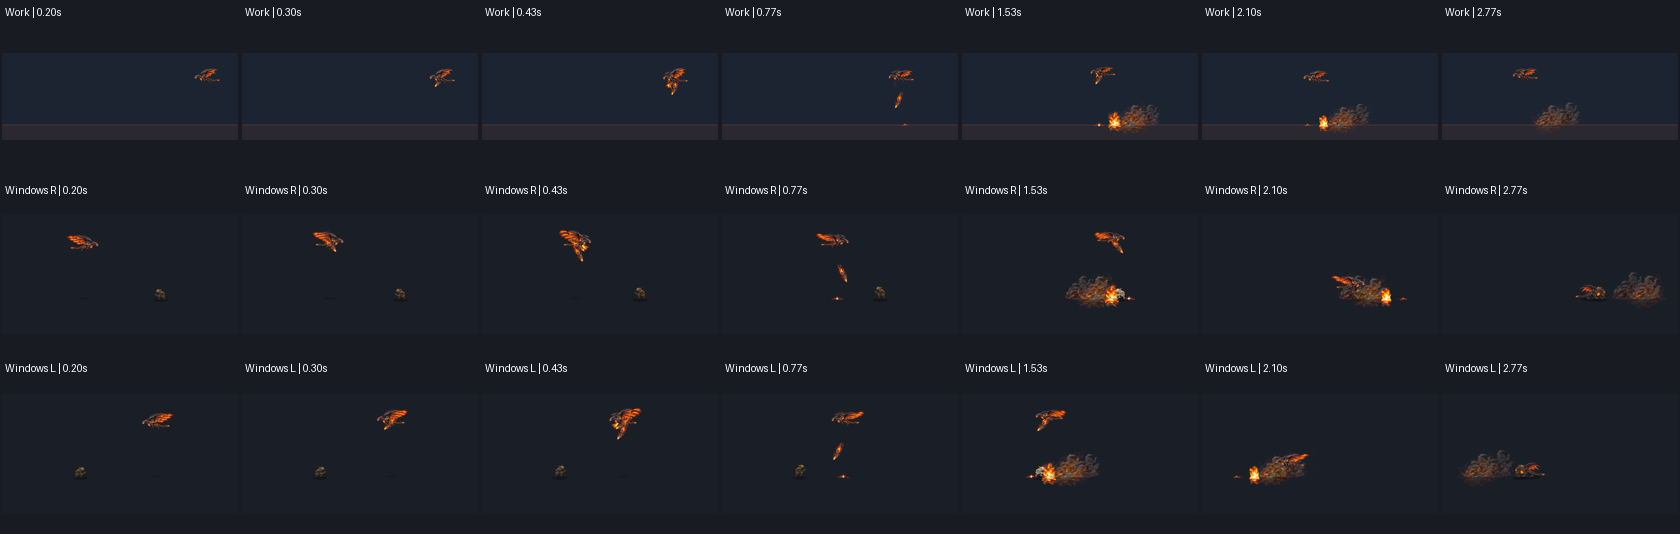
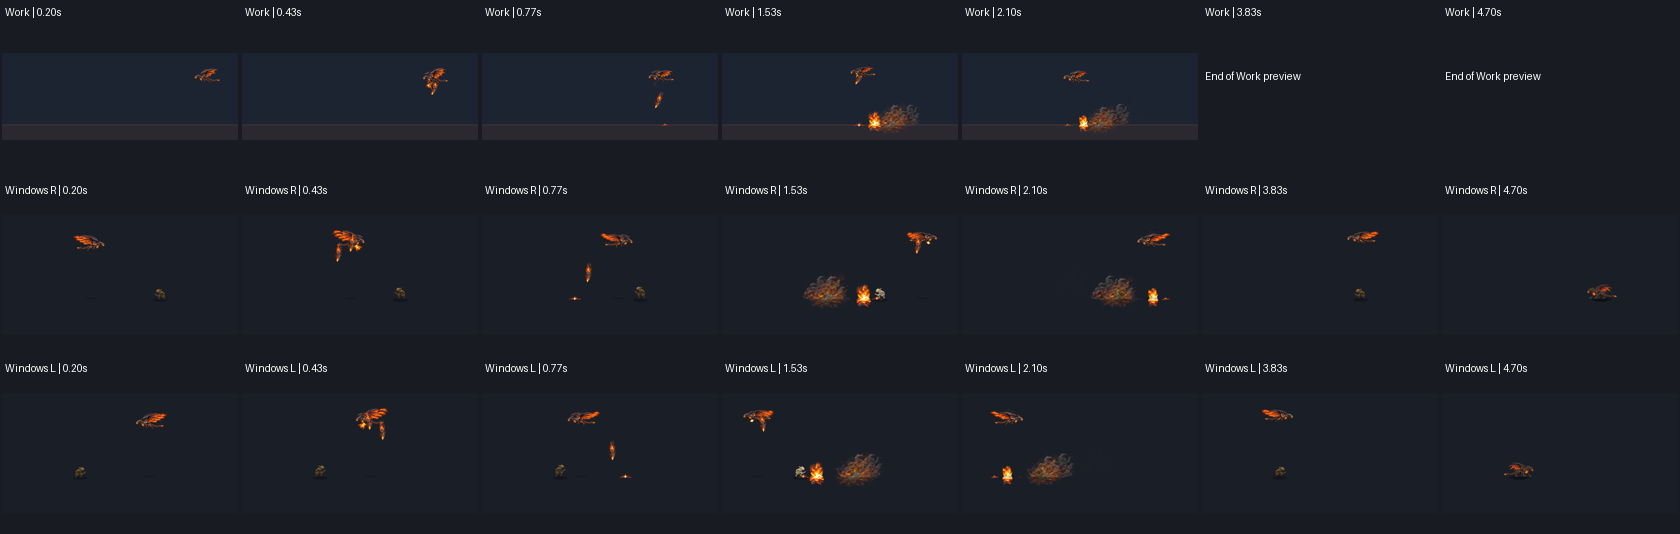
Automate Steel Dragon bombing run and add recovery flight

diff --git a/src/core/World.cpp b/src/core/World.cpp
@@ -538,7 +538,7 @@ void World::clearCarpetBombardment() {
         [](const Fx& f) { return f.key.rfind("carpet_", 0) == 0; }), fx_.end());
 }
 
-void World::advanceCarpetCast(float dt, Vec2 previousPosition) {
+void World::advanceCarpetCast(float dt, Vec2 recoveryInput) {
     auto& d = dragon_;
     if (!d.carpetCast) return;
     if (!d.alive || d.held) {
@@ -552,17 +552,17 @@ void World::advanceCarpetCast(float dt, Vec2 previousPosition) {
     const float scale = sizeScale_;
     const float height = cfg::kDragonRadius * 3.f * scale * fly.renderScale;
     const float end = cast.time + dt;
-    const float spacing = std::min(56.f, bounds_.w / 6.f);
-    const float facing = d.facing.x < 0.f ? -1.f : 1.f;
+    float cursor = cast.time;
+    const Vec2 forward{cast.direction, 0.f};
     while (cast.nextShot < carpet::shotCount && carpet::shots[cast.nextShot].launch <= end + 1e-6f) {
         const int index = cast.nextShot++;
         const auto& timing = carpet::shots[index];
-        const float step = std::clamp(timing.launch - cast.time, 0.f, dt);
-        const Vec2 position = dt > 0.f ? previousPosition + (d.pos - previousPosition) * (step / dt) : d.pos;
+        moveDragon(std::max(0.f, timing.launch - cursor), forward, carpet::runSpeed);
+        cursor = timing.launch;
         const Vec2 pin = carpet::port(carpet::flyFrame(timing.launch, fly.fps));
-        const Vec2 muzzle = position + Vec2{facing * (pin.x - 128.f) * height / 256.f,
+        const Vec2 muzzle = d.pos + Vec2{cast.direction * (pin.x - 128.f) * height / 256.f,
             cfg::kDragonRadius + (pin.y - 240.f) * height / 256.f - carpet::lift(timing.launch, scale)};
-        const Vec2 target{cast.center.x + cast.direction * (index - 2.5f) * spacing, cast.center.y};
+        const Vec2 target{d.pos.x, std::min(d.pos.y + cfg::kDragonRadius, bounds_.bottom())};
         const Vec2 drop = target - muzzle;
         const float clearance = std::min(carpet::clearance * scale, drop.length() * .35f);
         const Vec2 start = muzzle + drop.normalized() * clearance;
@@ -570,10 +570,15 @@ void World::advanceCarpetCast(float dt, Vec2 previousPosition) {
         Projectile projectile;
         projectile.pos = start;
         projectile.damage = d.attack() * skill.power;
-        projectile.carpetBomb = CarpetFlight{start, target, aim, timing.flight, dt - step,
+        projectile.carpetBomb = CarpetFlight{start, target, aim, timing.flight, std::max(0.f, end - timing.launch),
                                              scale, timing.impactScale, skillRadius(skill)};
         projectiles_.push_back(std::move(projectile));
     }
+    const float autoTime = std::min(end, carpet::lastDrop) - cursor;
+    if (autoTime > 0.f) moveDragon(autoTime, forward, carpet::runSpeed);
+    const float recoveryTime = std::min(end, carpet::flightEnd) - std::max(cursor, carpet::lastDrop);
+    if (recoveryTime > 0.f) moveDragon(recoveryTime, recoveryInput, carpet::recoverySpeed);
+    if (end > carpet::flightEnd) moveDragon(end - carpet::flightEnd, recoveryInput, 1.f);
     cast.time = end;
     if (end >= carpet::flightEnd) d.carpetCast.reset();
     d.flying = d.carpetCast.has_value();
@@ -899,15 +904,13 @@ bool World::castSkill(int i, bool aiChoice) {
         case SkillKind::Line: {
             if (s.carpetBombardment) {
                 if (d.carpetCast || d.breath || d.skillCast || d.steelAttack) return false;
-                const Enemy* target = nearestEnemy(d.pos, s.range);
-                if (aiChoice && !target) return false;
-                const float direction = target && std::fabs(target->pos.x - d.pos.x) > 1.f
-                    ? (target->pos.x > d.pos.x ? 1.f : -1.f) : (d.facing.x < 0.f ? -1.f : 1.f);
-                const float span = std::min(56.f, bounds_.w / 6.f) * 2.5f;
-                const float x = target ? target->pos.x : d.pos.x + direction * s.range * .45f;
-                const float y = target ? target->pos.y + target->radius : d.pos.y + cfg::kDragonRadius;
-                d.carpetCast = CarpetCast{i, {std::clamp(x, bounds_.x + span, bounds_.right() - span),
-                    std::clamp(y, bounds_.y, bounds_.bottom())}, direction};
+                const float direction = d.facing.x < 0.f ? -1.f : 1.f;
+                if (aiChoice && std::none_of(enemies_.begin(), enemies_.end(), [&](const Enemy& enemy) {
+                    return enemy.alive && !enemy.hopping() && (enemy.pos.x - d.pos.x) * direction >= 0.f &&
+                           distance(enemy.pos, d.pos) <= s.range;
+                })) return false;
+                d.carpetCast = CarpetCast{i, direction};
+                d.dashTime = 0.f;
                 d.facing = {direction, 0.f};
                 d.flying = true;
                 d.animHold = 0.f;
@@ -2091,7 +2094,6 @@ void World::controlDragon(float dt, CombatMode mode, const PlayerInput& in, bool
     DragonActor& d = dragon_;
     // 전투 중에는 자동 행동(날기)을 쓰지 않는다. 적이 없어 wander가 돌면 그 안에서 다시 켜진다.
     d.flying = d.carpetCast.has_value();
-    const Vec2 previousPosition = d.pos;
     const bool carpetAlreadyActive = d.carpetCast.has_value();
     // 타이머
     d.basicCd = std::max(0.f, d.basicCd - dt);
@@ -2138,7 +2140,7 @@ void World::controlDragon(float dt, CombatMode mode, const PlayerInput& in, bool
     if (d.alive && ultimateInput) castUltimate(false);
     const auto& procession = d.procession;
     const bool preparingProcession = procession && procession->launched == 0;
-    if (d.alive && !preparingProcession && (!d.breath || d.breath->elapsed >= d.breath->inputLock) && !skillCastLocked()) {
+    if (!carpetAlreadyActive && d.alive && !preparingProcession && (!d.breath || d.breath->elapsed >= d.breath->inputLock) && !skillCastLocked()) {
         if (mode == CombatMode::Direct) {
             if (in.dodge && d.dodgeCd <= 0.f && d.dashTime <= 0.f) {
                 Vec2 dir{in.moveX, in.moveY};
@@ -2175,7 +2177,8 @@ void World::controlDragon(float dt, CombatMode mode, const PlayerInput& in, bool
     advanceCoreOverheat(dt);
     advanceHeatBladeStorm(dt);
     if (mobileBreath) advanceBreath(dt);
-    if (carpetAlreadyActive) advanceCarpetCast(dt, previousPosition);
+    if (carpetAlreadyActive)
+        advanceCarpetCast(dt, mode == CombatMode::Auto ? Vec2{} : Vec2{in.moveX, in.moveY});
 }
 
 void World::updateCombat(float dt, CombatMode mode, const PlayerInput& in) {

diff --git a/tests/core_tests.cpp b/tests/core_tests.cpp
@@ -4888,7 +4888,7 @@ static void testSteelCarpetBombardment(Species steel) {
     w.setBounds(kDesk);
     w.setupDragon(steel, 12, 0.f, {400.f, 460.f});
     const auto& skill = speciesDef(steel).skills[4];
-    CHECK(skill.carpetBombardment);
+    CHECK(skill.carpetBombardment && skill.power == 2.85f);
     w.setSlots({4, -1, -1, -1});
     auto& dragon = w.dragon();
     dragon.basicCd = 100.f;
@@ -4897,9 +4897,12 @@ static void testSteelCarpetBombardment(Species steel) {
         e.hp = e.maxHp = 1000.f;
         e.stun = 100.f;
     };
-    add({680.f, 460.f});
-    add({820.f, 460.f});
-    add({680.f, 290.f});
+    const float speed = dragon.stats.speed * dragon.moveScale;
+    const float runSpeed = speed * carpet::runSpeed;
+    const float impactY = 460.f + cfg::kDragonRadius;
+    add({400.f + runSpeed * .32f, 460.f});
+    add({400.f + runSpeed * 1.49f, 460.f});
+    add({400.f + runSpeed * .83f, 290.f});
     PlayerInput fire;
     fire.skill[0] = true;
     const auto tick = [&](float dt, PlayerInput input = {}) {
@@ -4909,18 +4912,19 @@ static void testSteelCarpetBombardment(Species steel) {
     tick(0.f, fire);
     CHECK(dragon.carpetCast && dragon.anim == AnimState::Fly && dragon.flying);
     if (!dragon.carpetCast) return;
-    const float centerX = dragon.carpetCast->center.x;
-    const float impactY = dragon.carpetCast->center.y;
     tick(.24f);
-    CHECK(w.projectiles().empty());
+    CHECK(w.projectiles().empty() && dragon.pos.x > 400.f);
     PlayerInput move;
-    move.moveX = 1.f;
+    move.moveX = -1.f;
+    move.moveY = -1.f;
     tick(.02f, move);
     CHECK(dragon.pos.x > 400.f && dragon.anim == AnimState::Fly);
     CHECK(w.projectiles().size() == 1 && dragon.carpetCast->nextShot == 1);
     if (w.projectiles().empty()) return;
     const auto first = *w.projectiles().front().carpetBomb;
-    CHECK(first.origin.y < dragon.pos.y - 100.f && first.target.x < centerX);
+    CHECK(first.origin.y < dragon.pos.y - 100.f && first.target.y == impactY);
+    CHECK(std::fabs(first.target.x - (400.f + runSpeed * .25f)) < .01f);
+    CHECK(dragon.pos.y == 460.f && dragon.facing.x > 0.f);
     tick(.14f);
     CHECK(w.projectiles().size() == 2 && dragon.carpetCast->nextShot == 2);
     tick(.33f);
@@ -4939,16 +4943,26 @@ static void testSteelCarpetBombardment(Species steel) {
     for (int e = 0; e < 3; ++e) {
         const auto& enemy = w.enemies()[e];
         int hits = 0;
-        for (int i = 0; i < carpet::shotCount; ++i)
-            if (distance(enemy.pos, {centerX + (i - 2.5f) * 56.f, impactY}) <= skill.radius + enemy.radius)
+        for (const auto& shot : carpet::shots)
+            if (distance(enemy.pos, {400.f + runSpeed * shot.launch, impactY}) <= skill.radius + enemy.radius)
                 ++hits;
         const float damage = mitigate(dragon.attack() * skill.power, enemy.def);
         CHECK(std::fabs(enemy.hp - (1000.f - hits * damage)) < .03f);
         if (e < 2) CHECK(hits > 1);
         else CHECK(hits == 0);
     }
-    tick(1.4f, fire);
+    const float beforeRecoveryMove = dragon.pos.x;
+    CHECK(std::fabs(beforeRecoveryMove - (400.f + runSpeed * carpet::lastDrop)) < .01f);
+    move.moveY = 0.f;
+    tick(.4f, move);
+    CHECK(dragon.flying && dragon.anim == AnimState::Fly && dragon.facing.x < 0.f);
+    CHECK(std::fabs(dragon.pos.x - (beforeRecoveryMove - speed * carpet::recoverySpeed * .4f)) < .01f);
+    tick(2.08f, fire);  // Cast time 4.56, just before the boosted flight ends.
+    CHECK(dragon.carpetCast && dragon.flying);
+    const float beforeLanding = dragon.pos.x;
+    tick(.03f, move);
     CHECK(!dragon.carpetCast && !dragon.flying && dragon.skillCd[4] > 0.f);
+    CHECK(std::fabs(dragon.pos.x - (beforeLanding - speed * (.01f * carpet::recoverySpeed + .02f))) < .02f);
     CHECK(countLayer(carpet::smoke) == 0);
 
     w.clearEnemies(false);
@@ -4961,7 +4975,11 @@ static void testSteelCarpetBombardment(Species steel) {
     std::vector<float> impacts;
     for (const Fx& fx : w.fx())
         if (fx.key == carpet::atlases[carpet::smoke].key) impacts.push_back(fx.a.x);
-    CHECK(std::is_sorted(impacts.rbegin(), impacts.rend()));
+    CHECK(impacts.size() == carpet::shotCount);
+    if (impacts.size() == carpet::shotCount) {
+        for (int i = 0; i < carpet::shotCount; ++i)
+            CHECK(std::fabs(impacts[i] - (500.f - runSpeed * carpet::shots[i].launch)) < .01f);
+    }
     w.updateFx(0.f, true);
     CHECK(!dragon.carpetCast && countLayer(carpet::smoke) == 0);
 

diff --git a/src/win/Preview.cpp b/src/win/Preview.cpp
@@ -1,6 +1,7 @@
 #include "Platform.h"
 #include "Renderer.h"
 #include "core/TowerData.h"
+#include "core/CarpetBombardment.h"
 #include "core/Config.h"
 #include "core/DragonData.h"
 #include "core/EnemyData.h"
@@ -382,7 +383,7 @@ void PreviewWindow::reset() {
         duration_ = std::max(duration_, kSteelBasicLaunch + sk->range / (cfg::kProjectileSpeed * 1.1f) + sk->duration);
     if (sk->coreOverheat) duration_ = std::max(duration_, kCoreOverheatWindup + sk->duration);
     if (sk->heatBladeStorm) duration_ = 4.15f;
-    if (sk->carpetBombardment) duration_ = 3.35f;
+    if (sk->carpetBombardment) duration_ = carpet::flightEnd;
     duration_ += 0.15f;
     if (selected(Layer) == 2 || !body.bmp || skillIsPassive(sk->kind)) stepFps_ = std::max(1.f, sk->fxAnim.fps);
     if (layered) stepFps_ = 1.f / BreathCast::frameSeconds;
@@ -401,8 +402,9 @@ void PreviewWindow::seek(float time) {
             if (steelBasicPreview_ || (skill() && (skill()->furnaceBurst || skill()->coreOverheat ||
                                                     skill()->heatBladeStorm || skill()->carpetBombardment))) {
                 PlayerInput input;
-                if (const auto& cast = world_.dragon().carpetCast; cast && cast->time < 1.45f)
-                    input.moveX = cast->direction;
+                if (const auto& cast = world_.dragon().carpetCast;
+                    cast && cast->time > carpet::lastDrop + .3f && cast->time < carpet::lastDrop + 1.f)
+                    input.moveX = -cast->direction;
                 world_.updateCombat(dt, CombatMode::Direct, input);
                 world_.updateFx(dt);
             } else {

diff --git a/include/core/World.h b/include/core/World.h
@@ -218,7 +218,6 @@ struct CarpetFlight {
 
 struct CarpetCast {
     int skill;
-    Vec2 center;
     float direction;
     float time = 0.f;
     int nextShot = 0;
@@ -650,7 +649,7 @@ private:
     void advanceCoreOverheat(float dt);
     void advanceHeatBladeStorm(float dt);
     void advanceHeatBladeFlight(Projectile& shot, float dt);
-    void advanceCarpetCast(float dt, Vec2 previousPosition);
+    void advanceCarpetCast(float dt, Vec2 recoveryInput);
     void advanceCarpetFlight(Projectile& shot, float dt);
     void clearCarpetBombardment();
     void advanceSteelBasicFlight(Projectile& shot, float dt);

diff --git a/include/core/CarpetBombardment.h b/include/core/CarpetBombardment.h
@@ -32,7 +32,11 @@ inline constexpr Shot shots[] = {
     {1.57f, 0.50f, 1.02f},
 };
 inline constexpr int shotCount = sizeof(shots) / sizeof(shots[0]);
-inline constexpr float flightEnd = 2.18f;
+inline constexpr float lastDrop = shots[shotCount - 1].launch;
+inline constexpr float recoveryDuration = 3.f;
+inline constexpr float recoverySpeed = 1.2f;
+inline constexpr float runSpeed = 1.6f;
+inline constexpr float flightEnd = lastDrop + recoveryDuration;
 inline constexpr float clearance = 16.f;
 
 inline float lift(float time, float scale) {

diff --git a/docs/characters/steel-dragon.md b/docs/characters/steel-dragon.md
@@ -148,12 +148,12 @@ Work QA 기준 L3 마지막 잔상은 알파가 6 이하로 떨어져 empty_laye
 
 [Work 승인 시트 6개와 메타데이터](../../assets/dragons/steel_dragon/carpet_bombardment_v1_1/)를 사용한다. 48개 셀을 ZIP의 개별 프레임과 대조했다. 기존 포탄·점화·폭발·연기 시트는 V1 백업과 바이트가 일치하고 V1.1에서 섬광과 지면 충격파가 추가됐다. FURNACE WAR MACHINE 스타일 기준은 금속 갑주, 추진, 포격구 점화, 착탄 화염과 검은 배기에 적용한다. 브레스는 이 스타일 바이블의 적용 범위에서 제외한다.
 
-Lv.12부터 스킬 메뉴에서 1~4번 칸 중 하나에 장착한다. 전투 중 해당 키를 누르면 짧게 자동 이륙한다. 기존 FLY 24프레임과 추진·VENT를 사용하며 시전 동안 이동할 수 있다. 이륙 높이는 연출과 포격구에 반영하고 기존 이동과 피격 좌표는 유지한다. 포격구는 원본 FLY의 프레임별 복부 좌표를 크기 및 좌우 방향에 맞춰 변환한다. 착지까지 새 공격 입력을 잠그며, 이미 발사된 포탄은 시전자의 상태와 별개로 처리한다. 전투가 종료되거나 캐릭터가 교체되면 관련 인스턴스를 정리한다.
+Lv.12부터 스킬 메뉴에서 1~4번 칸 중 하나에 장착한다. 전투 중 해당 키를 누르면 바라보는 방향으로 자동 이륙해 기본 속도의 1.6배로 전진한다. 투하 중에는 방향 입력을 잠그고 마지막 투하 직후 이동 조작을 돌려준다. 이후 3초간 기존 FLY 24프레임과 추진·VENT를 유지하고 이동 속도가 20% 증가한다. 이륙 높이는 연출과 포격구에 반영하고 기존 이동과 피격 좌표는 유지한다. 포격구는 원본 FLY의 프레임별 복부 좌표를 크기 및 좌우 방향에 맞춰 변환한다. 착지까지 새 공격 입력을 잠그며, 이미 발사된 포탄은 시전자의 상태와 별개로 처리한다. 전투가 종료되거나 캐릭터가 교체되면 관련 인스턴스를 정리한다.
 
-포탄은 0.25·0.39 / 0.83·0.99 / 1.42·1.57초에 2·2·2로 투하된다. 0.47~0.50초 동안 각자 곡선으로 떨어지며, 탄두 앵커가 궤적 접선을 따라간다. 유효 표적의 발밑이나 전방 지정점을 중심으로 약 56px 간격에 여섯 착탄점을 배치하고 전투 구역이 좁으면 간격을 조정한다. 각 착탄에 섬광(4F)과 충격파(6F)가 즉시, 주 폭발(12F, 금속 파편 포함)이 37ms 뒤, 검은 연기(12F)가 258ms 뒤 시작한다. 포탄은 8F 루프, 점화는 6F 한 번 재생이다.
+포탄은 0.25·0.39 / 0.83·0.99 / 1.42·1.57초에 2·2·2로 투하된다. 0.47~0.50초 동안 각자 곡선으로 떨어지며, 탄두 앵커가 궤적 접선을 따라간다. 착탄점은 포탄별 투하 시점에 강철룡이 있던 위치 바로 아래다. 전투 구역 가장자리에서는 전진을 경계에서 멈춘다. 각 착탄에 섬광(4F)과 충격파(6F)가 즉시, 주 폭발(12F, 금속 파편 포함)이 37ms 뒤, 검은 연기(12F)가 258ms 뒤 시작한다. 포탄은 8F 루프, 점화는 6F 한 번 재생이다.
 
-검수용 밸런스는 발당 공격력 0.95배, 반경 74px, 표적 탐색 거리 520px, 쿨다운 20초다. 여섯 발이 모두 같은 적에게 맞아도 총 5.7배로 스킬 04의 10틱 총 6.5배보다 낮다. 각 폭발은 범위 내 적당 한 번 판정하며 폭발끼리는 독립이다. 지면 착탄을 중심으로 기존 원형 판정을 사용해 높은 곳의 적은 범위 밖이면 맞지 않는다. 기존 분열 점프 중인 적도 제외한다.
+발당 공격력은 기존 0.95배의 3배인 2.85배다. 폭발 반경 74px, 쿨다운 20초이며, 자동 전투에서는 전방 520px 내에 적이 있을 때 사용한다. 각 폭발은 범위 내 적당 한 번 판정하며 폭발끼리는 독립이다. 지면 착탄을 중심으로 기존 원형 판정을 사용해 높은 곳의 적은 범위 밖이면 맞지 않는다. 기존 분열 점프 중인 적도 제외한다.
 
 여섯 시트는 각각 한 번 로드하며 기존 프레임 캐시를 재사용한다. 원본 AssetQA는 오류 0건, 기존 경고 4건, 신규 경고 0건이었다. [Work QA](../../assets/dragons/steel_dragon/carpet_bombardment_v1_1/qa/report.md)
 
-Windows x64 Release 및 CTest 8/8을 통과했다. 전투 테스트는 낮은 갱신 빈도의 여섯 착탄, 복수 대상과 중첩 피해, 이동, 사망 후 발사 중단과 정리를 검사한다. Windows 게임 렌더러로 좌우 206프레임 및 150% 동시 폭발 장면을 캡처했다. Work와 같은 시점에서 배율·배경·착탄 위치에는 게임 환경에 따른 차이가 있다. V1.1 시트 6개의 RGBA 환산 크기는 약 34.7 MiB이며 실제 플레이 FPS와 장시간 메모리 실측은 남아 있다. [Windows GIF](steel-bombardment-windows.gif) · [Work 비교](steel-bombardment-work-windows.png)
+Windows x64 Release 및 CTest 8/8을 통과했다. 전투 테스트는 낮은 갱신 빈도의 여섯 착탄, 복수 대상과 중첩 피해, 이동, 사망 후 발사 중단과 정리를 검사한다. 변경 후 Windows 게임 렌더러로 좌우 290프레임을 캡처해 자동 전진, 낙하, 재정비 비행, 착지를 확인했다. Work와 같은 시점에서 배율·배경·착탄 위치에는 게임 환경에 따른 차이가 있다. V1.1 시트 6개의 RGBA 환산 크기는 약 34.7 MiB이며 실제 플레이 FPS와 장시간 메모리 실측은 남아 있다. [Windows GIF](steel-bombardment-windows.gif) · [Work 비교](steel-bombardment-work-windows.png)

diff --git a/docs/STATE.md b/docs/STATE.md
@@ -11,7 +11,7 @@
 
 ## 한눈에
 
-- [강철룡 스킬 5 용광 융단폭격](characters/steel-dragon.md#스킬-5--용광-융단폭격-v11) V1.1을 통합했다. 기존 FLY에 프레임별 복부 발사구를 연결하고 2·2·2 투하와 독립 착탄 피해를 적용했다.
+- [강철룡 스킬 5 용광 융단폭격](characters/steel-dragon.md#스킬-5--용광-융단폭격-v11) V1.1을 통합했다. 기존 FLY에 프레임별 복부 발사구를 연결했다. 자동 전진하며 바로 아래에 2·2·2로 투하하고, 마지막 투하 뒤 3초간 이동 속도 20% 증가와 비행 자세를 유지한다. 발당 피해는 2.85배다.
 
 - [강철룡 스킬 4 용광로 브레스](characters/steel-dragon.md#스킬-4--용광로-브레스-v31) V3.1을 통합했다. Bonestorm 기반 3.46초 브레스에 입 기준 L4 트랙과 지속 피해를 연결했다. Windows Release·CTest 8/8 및 렌더러 비교를 완료했다. 실제 플레이 성능과 밸런스는 검수 중이다.
 
